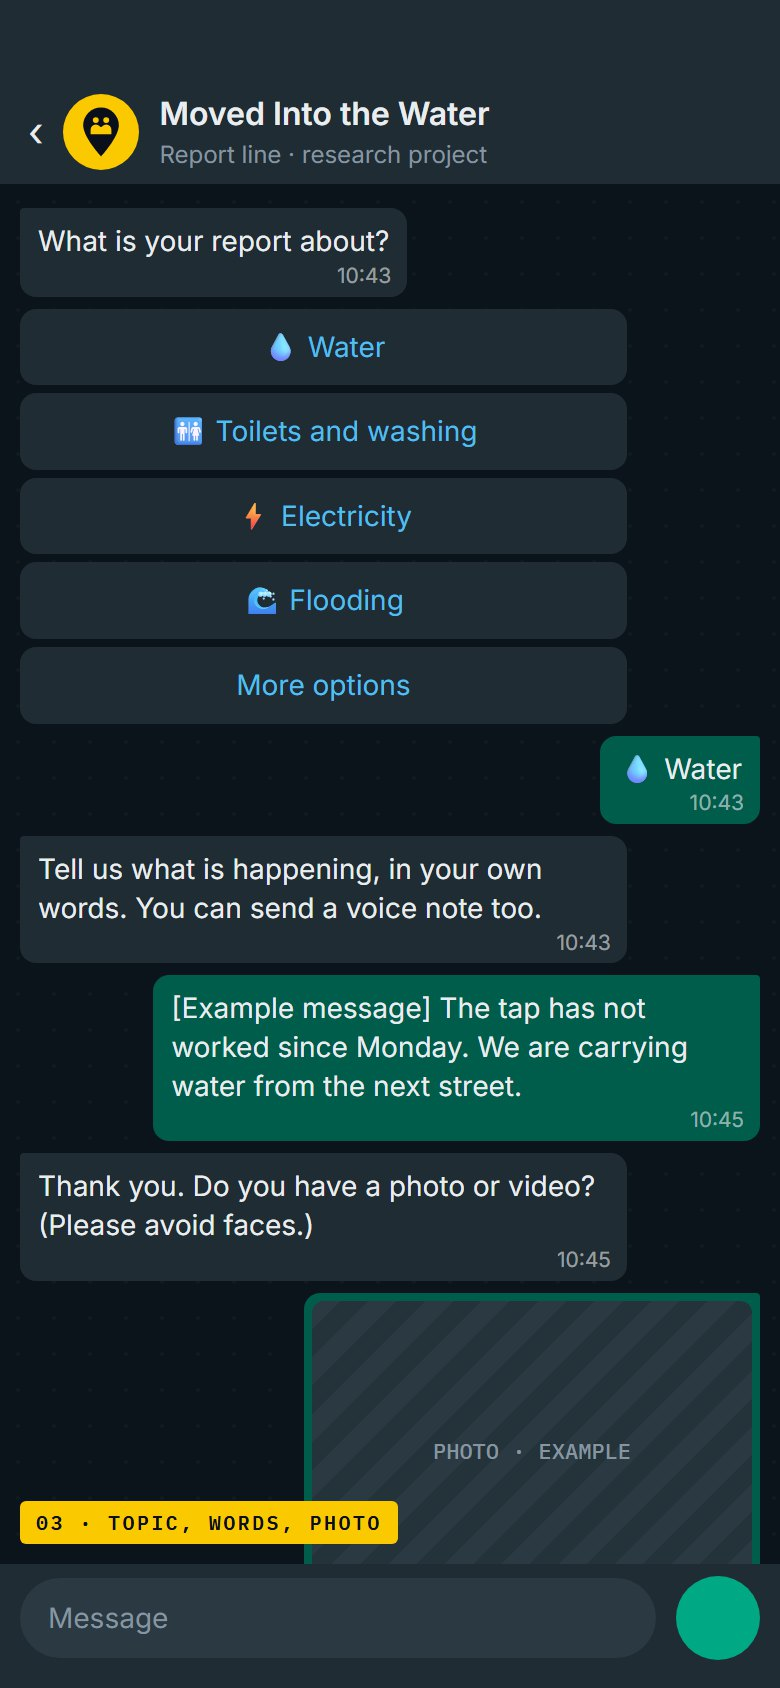
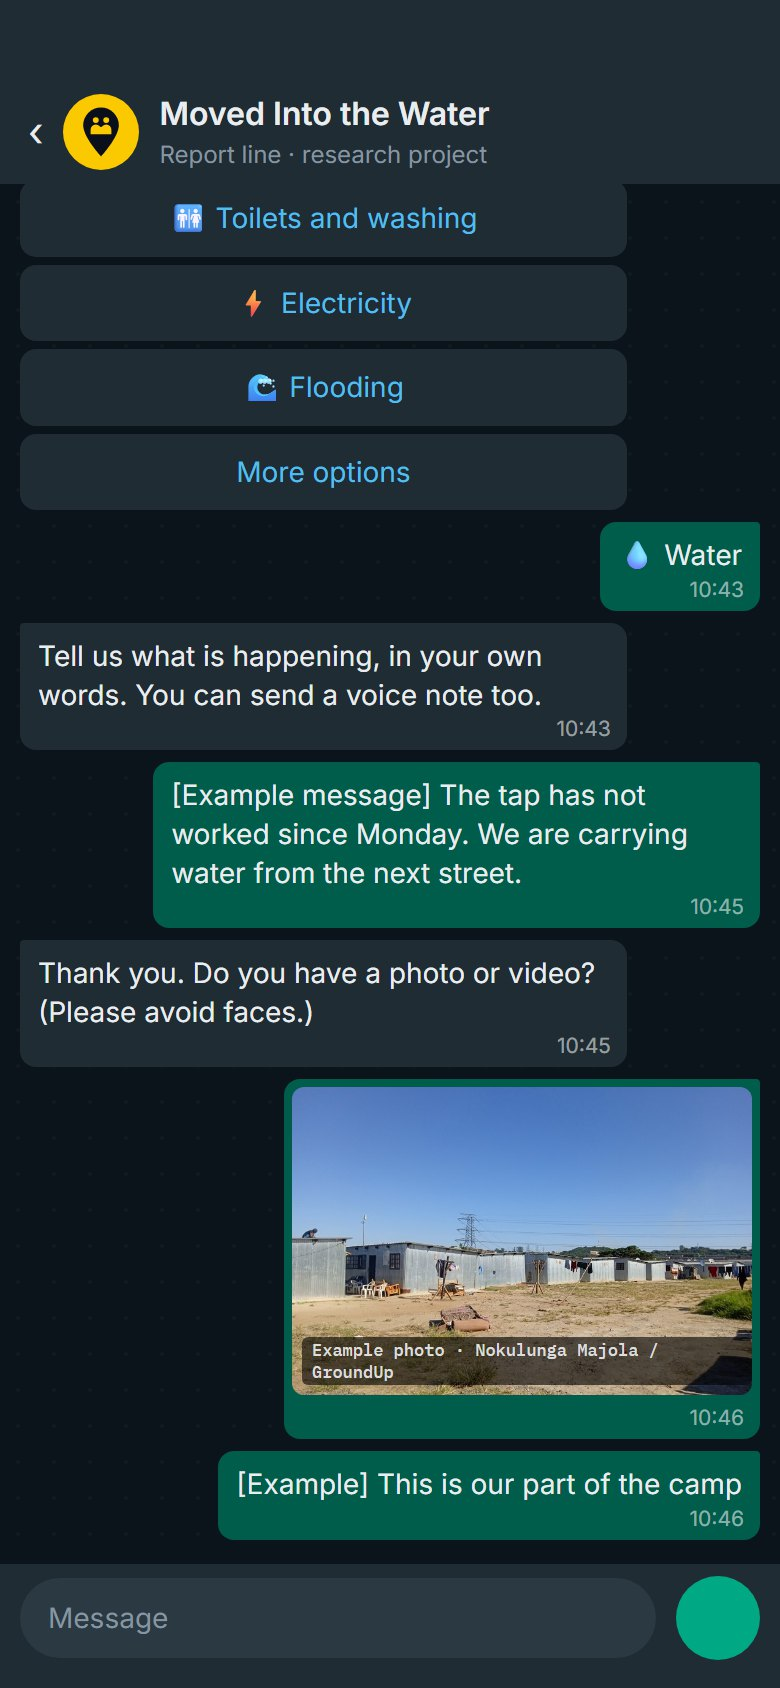
WhatsApp mockups: example photo in the chat upload

diff --git a/mockups/whatsapp-report/build.py b/mockups/whatsapp-report/build.py
@@ -16,7 +16,7 @@ CSS = """
 .wa-av{width:38px;height:38px;border-radius:50%;background:#FBC900;display:grid;place-items:center}
 .wa-av svg{width:22px;height:26px}
 .wa-name{font-weight:600;font-size:16px}.wa-sub{font-size:12px;color:#8696A0}
-.wa-body{flex:1;padding:12px 10px;display:flex;flex-direction:column;gap:6px;overflow:hidden;background:#0B141A radial-gradient(rgba(255,255,255,.025) 1px,transparent 1px) 0 0/18px 18px}
+.wa-body{flex:1;padding:12px 10px;display:flex;flex-direction:column;justify-content:flex-end;gap:6px;overflow:hidden;background:#0B141A radial-gradient(rgba(255,255,255,.025) 1px,transparent 1px) 0 0/18px 18px}
 .b{max-width:82%;padding:7px 9px 18px;border-radius:8px;font-size:14px;line-height:1.38;color:#E9EDEF;position:relative;white-space:pre-line}
 .b.in{background:#202C33;align-self:flex-start;border-top-left-radius:2px}
 .b.out{background:#005C4B;align-self:flex-end;border-top-right-radius:2px}
@@ -45,7 +45,7 @@ def qr(size=220, seed=7):
             if r.random() < .48: cells.append(f'<rect x="{j*c:.2f}" y="{i*c:.2f}" width="{c+.3:.2f}" height="{c+.3:.2f}" fill="#0B0F19"/>')
     return f'<svg width="{size}" height="{size}" viewBox="0 0 {size} {size}"><rect width="{size}" height="{size}" fill="#fff"/>{"".join(cells)}{finder(0,0)}{finder(n-7,0)}{finder(0,n-7)}</svg>'
 def phone(chat, note):
-    return page(f'<div class="wa"><div class="wa-top"><span style="font-size:20px">‹</span><div class="wa-av">{PIN}</div><div><div class="wa-name">Moved Into the Water</div><div class="wa-sub">Report line · research project</div></div></div><div class="wa-body">{chat}</div><div class="wa-in"><span>Message</span><i></i></div></div><div class="note" style="bottom:72px;right:auto;left:10px">{note}</div>', 390, 844)
+    return page(f'<div class="wa"><div class="wa-top"><span style="font-size:20px">‹</span><div class="wa-av">{PIN}</div><div><div class="wa-name">Moved Into the Water</div><div class="wa-sub">Report line · research project</div></div></div><div class="wa-body">{chat}</div><div class="wa-in"><span>Message</span><i></i></div></div>', 390, 844)
 B = lambda side, txt, t="10:42": f'<div class="b {side}">{txt}<time>{t}</time></div>'
 
 F = {}
@@ -82,7 +82,7 @@ F["03-chat-report"] = (phone(
  B("in", "Tell us what is happening, in your own words. You can send a voice note too.", "10:43") +
  B("out", "[Example message] The tap has not worked since Monday. We are carrying water from the next street.", "10:45") +
  B("in", "Thank you. Do you have a photo or video? (Please avoid faces.)", "10:45") +
- '<div class="b out" style="padding:4px 4px 18px"><div class="ph">PHOTO · EXAMPLE</div><time>10:46</time></div>',
+ '<div class="b out" style="padding:4px 4px 18px"><div style="position:relative;width:230px;height:154px;border-radius:6px;overflow:hidden;margin-bottom:4px;background:url(../img/gu_lamontville_camp_2022.jpg) center/cover"><span style="position:absolute;left:5px;bottom:5px;font:500 8.5px var(--mono);background:rgba(0,0,0,.6);color:#ddd;padding:1px 5px;border-radius:3px">Example photo · Nokulunga Majola / GroundUp</span></div><time>10:46</time></div>' + B("out", "[Example] This is our part of the camp", "10:46"),
  "03 · Topic, words, photo"), (390, 844))
 
 F["04-chat-done"] = (phone(
